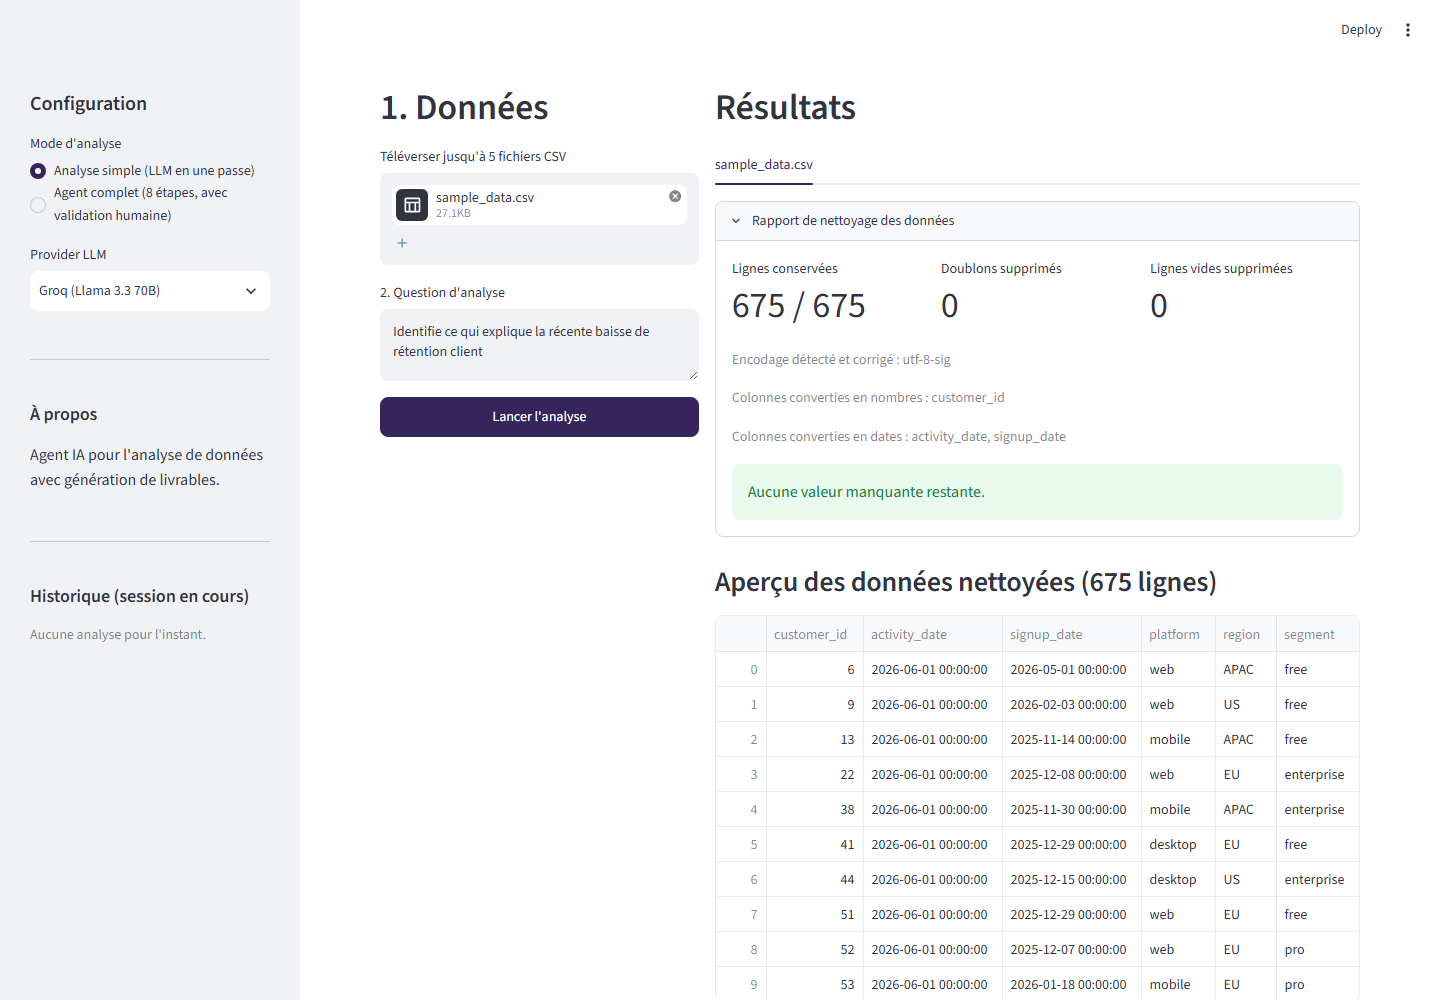
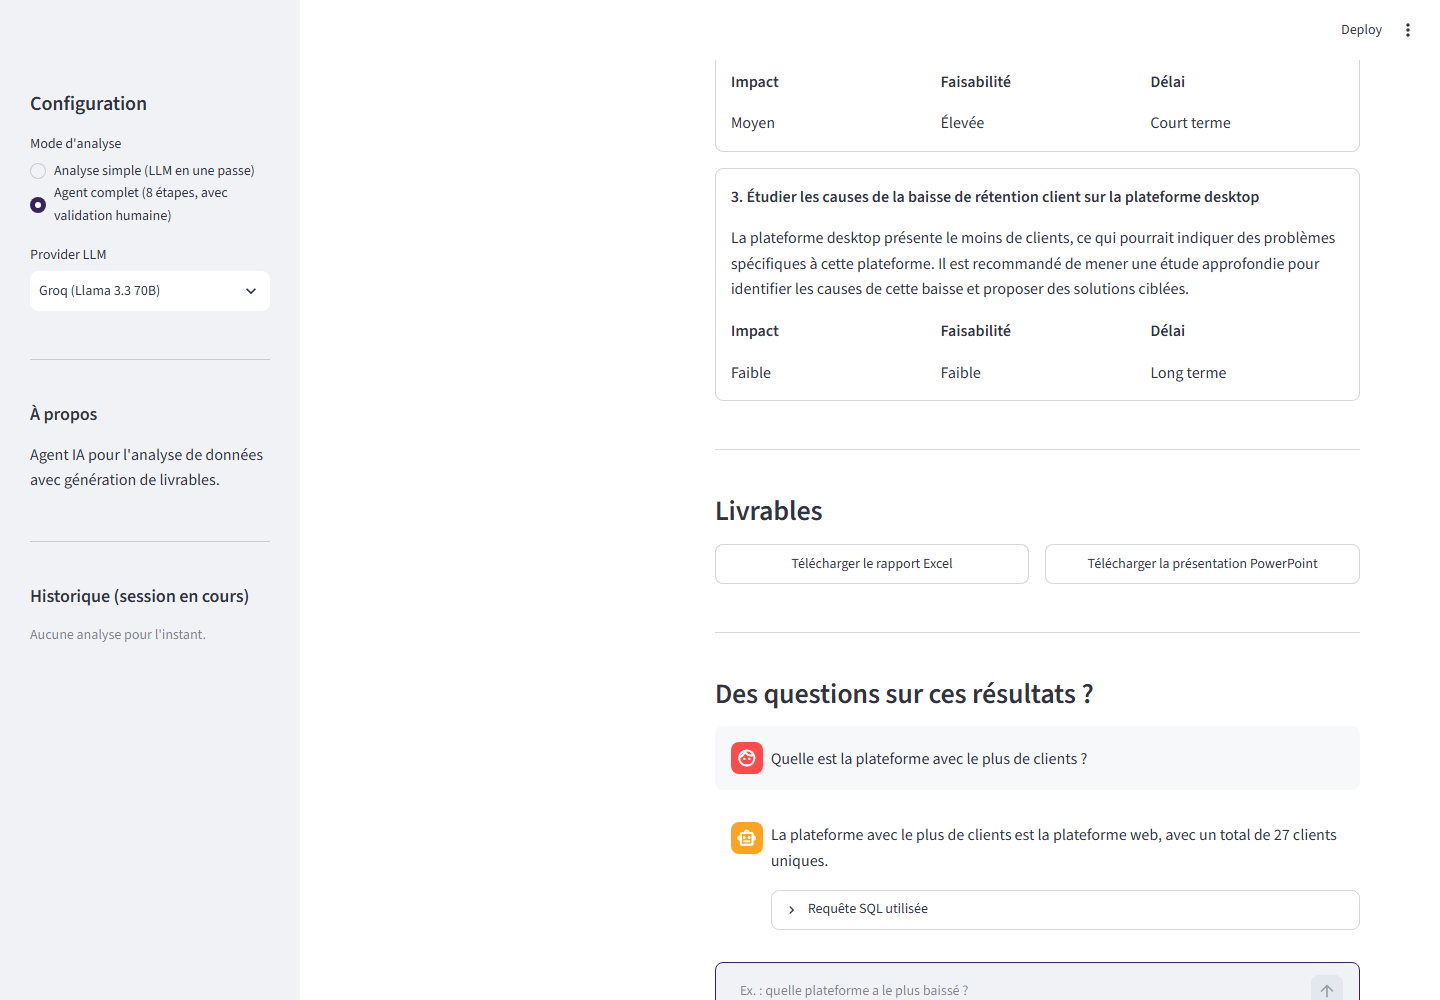
Add chat error-path tests, refresh architecture diagram and screenshot
- Two new tests cover the chat's error handling in agent_ui.py
  (LLMUnavailableError -> warning, unexpected exception -> error, in both
  cases the unanswered question is dropped from history instead of getting
  stuck) -- raises agent_ui.py coverage from 88% to 91%. 174 tests total.
- docs/architecture.mmd: added the follow-up chat as an optional node after
  the graph's terminal state, dashed/distinct styling to make clear it runs
  outside the LangGraph state machine itself. Regenerated architecture.svg
  from it via mermaid-cli.
- docs/screenshot-app.png: recaptured against the live app (real Groq
  calls) showing the Agent complet mode's results, deliverables, and the
  new follow-up chat mid-conversation with its SQL query expander -- the
  previous screenshot only showed the upload/cleaning screen, which no
  longer reflects the most significant recent addition. README caption and
  test count updated to match.

diff --git a/tests/test_app_integration.py b/tests/test_app_integration.py
@@ -224,6 +224,61 @@ def test_agent_mode_chat_answers_a_followup_question(monkeypatch, tmp_path):
     assert any('SELECT * FROM "t"' in c.value for c in at.code)
 
 
+def test_agent_mode_chat_llm_unavailable_shows_warning_not_error(monkeypatch, tmp_path):
+    # Même traitement que pour le cadrage/l'inspection (voir
+    # test_agent_mode_llm_unavailable_shows_warning_not_error) : le chat
+    # intercepte UserFacingError séparément d'une exception générique, et une
+    # question sans réponse ne doit pas rester bloquée dans l'historique.
+    from agent.llm.config import LLMUnavailableError
+
+    _patch_graph_factory(monkeypatch)
+    csv_path = _write_csv(tmp_path, "ventes.csv")
+
+    at = _run_harness(monkeypatch, AGENT_HARNESS, [csv_path])
+    at.session_state["agent_trigger_inspect"] = True
+    at.run()
+    at.button(key="agent_approve_0_ventes.csv").click().run()
+    assert not at.exception
+
+    import agent_ui
+
+    def raise_unavailable(**kwargs):
+        raise LLMUnavailableError("Le service d'analyse IA n'est pas configuré pour le moment.")
+
+    monkeypatch.setattr(agent_ui, "answer_question", raise_unavailable)
+
+    at.chat_input(key="chat_input_0_ventes.csv").set_value("Une question").run()
+
+    assert not at.exception
+    assert len(at.error) == 0
+    assert any("pas configuré" in w.value for w in at.warning)
+    assert at.session_state["agent_runs"]["0_ventes.csv"]["chat_history"] == []
+
+
+def test_agent_mode_chat_unexpected_error_shows_error_message(monkeypatch, tmp_path):
+    _patch_graph_factory(monkeypatch)
+    csv_path = _write_csv(tmp_path, "ventes.csv")
+
+    at = _run_harness(monkeypatch, AGENT_HARNESS, [csv_path])
+    at.session_state["agent_trigger_inspect"] = True
+    at.run()
+    at.button(key="agent_approve_0_ventes.csv").click().run()
+    assert not at.exception
+
+    import agent_ui
+
+    def raise_unexpected(**kwargs):
+        raise RuntimeError("panne inattendue")
+
+    monkeypatch.setattr(agent_ui, "answer_question", raise_unexpected)
+
+    at.chat_input(key="chat_input_0_ventes.csv").set_value("Une question").run()
+
+    assert not at.exception
+    assert any("panne inattendue" in e.value for e in at.error)
+    assert at.session_state["agent_runs"]["0_ventes.csv"]["chat_history"] == []
+
+
 def test_agent_mode_llm_unavailable_shows_warning_not_error(monkeypatch, tmp_path):
     from agent.llm.config import LLMUnavailableError
 

diff --git a/README.md b/README.md
@@ -124,7 +124,7 @@ DUCKDB_PATH=./data/analytics.duckdb
 streamlit run app.py
 ```
 
-![Aperçu de l'application Streamlit : upload multi-fichiers, rapport de nettoyage et aperçu des données](docs/screenshot-app.png)
+![Aperçu de l'application Streamlit en mode Agent complet : recommandations, livrables téléchargeables et chat de suivi interrogeant DuckDB en direct](docs/screenshot-app.png)
 
 La barre latérale propose deux modes :
 
@@ -191,7 +191,7 @@ ai-data-agent/
 │   ├── state.py            # Schéma d'état (Pydantic)
 │   ├── main.py             # Point d'entrée de l'agent
 │   ├── nodes/              # Les 8 nœuds du workflow (dont export.py)
-│   ├── tools/              # Chargement de données (DuckDB)
+│   ├── tools/              # Chargement de données (DuckDB), sécurité SQL, chat de suivi
 │   ├── llm/                # Config LLM multi-provider + fallback
 │   ├── output/             # Générateurs Excel / PPTX + vérification de cohérence
 │   └── streaming/          # Surveillance de dossier + détection d'anomalies
@@ -224,7 +224,7 @@ python -m pytest tests/ -v
 python -m pytest tests/ --cov=agent --cov=app_utils --cov=agent_ui --cov=simple_mode_ui --cov=ui_helpers --cov=mcp_server --cov-report=term-missing
 ```
 
-172 tests, ~92 % de couverture sur `agent/`, `app_utils.py`, `agent_ui.py`, `simple_mode_ui.py`, `ui_helpers.py` et `mcp_server/` combinés. La suite couvre le nettoyage/export de données, le chargement DuckDB et la détection de schéma (fichier seul et jointure multi-fichiers, y compris les régressions de sécurité SQL décrites ci-dessus), l'extraction de JSON depuis une réponse LLM imparfaite, tous les nœuds de l'agent — y compris `framing`/`recommend` (qui appellent un LLM) et `export` (génération Excel/PowerPoint) — le test de significativité chi² et son garde-fou de cardinalité, le repli entre providers LLM, le point d'entrée CLI (`agent/main.py`), la restriction en lecture seule du serveur MCP et du chat de suivi (`tests/test_chat_assistant.py`), la décision de déclenchement du pipeline de streaming et l'organisation de ses livrables, les générateurs Excel/PowerPoint et la vérification de cohérence entre les deux.
+174 tests, ~92 % de couverture sur `agent/`, `app_utils.py`, `agent_ui.py`, `simple_mode_ui.py`, `ui_helpers.py` et `mcp_server/` combinés. La suite couvre le nettoyage/export de données, le chargement DuckDB et la détection de schéma (fichier seul et jointure multi-fichiers, y compris les régressions de sécurité SQL décrites ci-dessus), l'extraction de JSON depuis une réponse LLM imparfaite, tous les nœuds de l'agent — y compris `framing`/`recommend` (qui appellent un LLM) et `export` (génération Excel/PowerPoint) — le test de significativité chi² et son garde-fou de cardinalité, le repli entre providers LLM, le point d'entrée CLI (`agent/main.py`), la restriction en lecture seule du serveur MCP et du chat de suivi (`tests/test_chat_assistant.py`), la décision de déclenchement du pipeline de streaming et l'organisation de ses livrables, les générateurs Excel/PowerPoint et la vérification de cohérence entre les deux.
 
 Pour `framing`/`recommend`, seul l'appel réseau est simulé (`litellm.completion`, avec des réponses représentatives d'un vrai modèle — JSON dans un bloc ```json, ou texte libre sans JSON) : `get_llm_response()`, l'extraction JSON et la logique des nœuds tournent pour de vrai, sans dépendre d'un provider externe ni de sa disponibilité du jour. Le même principe s'applique au point d'entrée CLI et aux tests d'intégration de l'interface (`tests/test_app_integration.py`) : ils pilotent réellement les widgets Streamlit (radio, sélecteurs, clics) via `AppTest`, avec le graphe LangGraph remplacé par un faux graphe déterministe (`tests/streamlit_scripts/`), pour vérifier bout en bout l'inspection, l'isolation entre fichiers, la jointure et l'affichage d'un quota épuisé sans dépendre du réseau. Une intégration continue (GitHub Actions, [`.github/workflows/tests.yml`](.github/workflows/tests.yml)) exécute cette suite sur Python 3.11 et 3.12 à chaque push/PR sur `main`, sans clé API requise.
 
@@ -247,6 +247,8 @@ Toutes les étapes prévues sont complétées :
 - [x] Analyse croisée entre plusieurs fichiers liés (jointure configurable par l'utilisateur, jusqu'à 5 fichiers)
 - [x] Couverture de tests des nœuds `framing`/`recommend` (réponse LLM simulée, reste de la chaîne réel)
 - [x] Export des livrables du pipeline de streaming (copiés dans `./outputs/stream/`, nommés d'après le fichier source)
+- [x] Restriction en lecture seule du serveur MCP et garde-fou de cardinalité sur le test du chi² (voir section Sécurité et Analyse des facteurs explicatifs)
+- [x] Chat de suivi sur les résultats avec accès direct à DuckDB (mode Agent complet)
 
 ---
 
